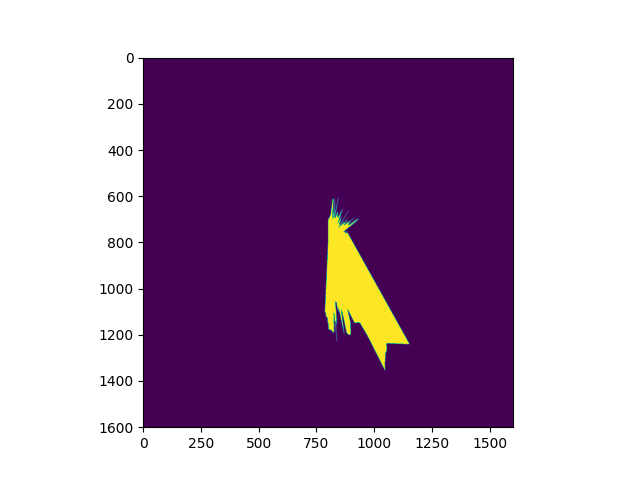
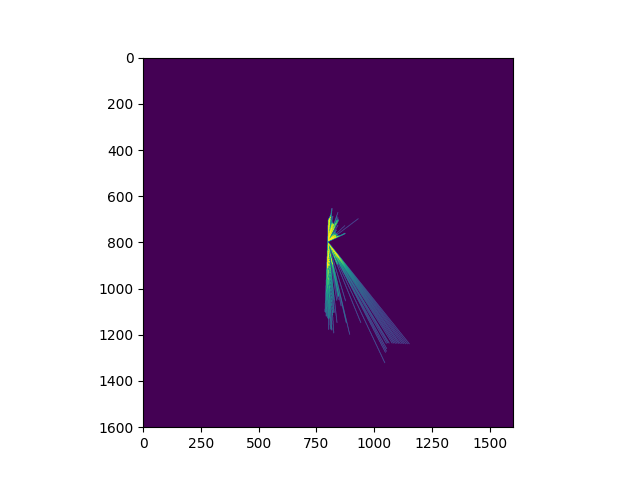
bresenham method used

Changed region(s): [[0.5, 0.4062, 0.6562, 0.7812]]

diff --git a/ECE-276A/Project-2/code/occupancy_grid_map.py b/ECE-276A/Project-2/code/occupancy_grid_map.py
@@ -13,11 +13,11 @@ def initializeMap(res, xmin, ymin, xmax, ymax, memory = None, trust = None, opti
     if trust == None:
         trust = 0.8
     if optimism == None:
-        optimism = 0.5
+        optimism = 1#0.5
     if occupied_thresh == None:
         occupied_thresh = 0.85
     if free_thresh == None:
-        free_thresh = 0.2 # 0.5 # 0.25
+        free_thresh = 0.5 # 0.5 # 0.25
     if confidence_limit == None:
         confidence_limit = 40 * memory
     
@@ -69,7 +69,7 @@ def updateMap(MAP, x_w, y_w, x_cur, y_cur):
     MAP['map'] = MAP['map'] * MAP['memory']
 
     # occupied in map
-    MAP['map'][x_m,y_m] += MAP['occupied'] #- MAP['free'] # we're going to add the MAP['free'] back in a second
+    MAP['map'][x_m,y_m] += MAP['occupied']#- MAP['free'] # we're going to add the MAP['free'] back in a second
     
     # initialize a mask where we will label the free cells
     free_grid = np.zeros(MAP['map'].shape).astype(np.int8) 
@@ -78,8 +78,15 @@ def updateMap(MAP, x_w, y_w, x_cur, y_cur):
     contours = np.vstack((x_m, y_m)) # SWITCH
 
     # find the cells that are free, and update the map
-    cv2.drawContours(free_grid, [contours.T], -1, MAP['free'], -1) 
-    MAP['map'] += free_grid 
+    #cv2.drawContours(free_grid, [contours.T], -1, MAP['free'], -1) 
+    for i in range(contours.shape[1]):
+        hit_x_m, hit_y_m = x_m[i], y_m[i]
+        frees = bresenham2D(x_cur_m, y_cur_m, hit_x_m, hit_y_m)
+        MAP['map'][frees[1,:].astype(int),frees[0,:].astype(int)] += MAP['free']
+    
+    #MAP['map'] += free_grid 
+    #plt.imshow(free_grid)
+    #plt.savefig("free_grid")
     
     # prevent overconfidence
     MAP['map'][MAP['map'] > MAP['confidence_limit']] = MAP['confidence_limit']
@@ -90,69 +97,12 @@ def updateMap(MAP, x_w, y_w, x_cur, y_cur):
     free_grid = MAP['map'] < MAP['free_thresh']
     plt.imshow(free_grid)
     plt.savefig("free_grid")
-    plt.imshow(occupied_grid)
-    plt.savefig("occupied_grid")
+    #plt.imshow(occupied_grid)
+    #plt.savefig("occupied_grid")
     
     MAP['plot'][occupied_grid] = [0, 0, 0]
     MAP['plot'][free_grid] = [255, 255, 255] 
-    plt.imshow(MAP['plot'])
-    plt.savefig('map_before.png')
-    
     MAP['plot'][np.logical_and(np.logical_not(free_grid), np.logical_not(occupied_grid))] = [127, 127, 127]
     
     x_m, y_m = transformation.worldToMap(MAP, x_w, y_w)
     MAP['plot'][y_m, x_m] = [255, 0, 0]    # plot latest lidar scan hits
-
-
-def test_mapCorrelation():
-    _, lidar_data = read_data_from_csv('/home/wf1497c/ML/UCSD/ECE-276A/Project-2/Lidar/lidar.csv')
-    angles = np.linspace(-5, 185, 286) / 180 * np.pi
-    ranges = lidar_data[0, :]
-
-    # take valid indices
-    indValid = np.logical_and((ranges < 80),(ranges> 0.1))
-    ranges = ranges[indValid]
-    angles = angles[indValid]
-
-    # init MAP
-    MAP = {}
-    MAP['res']   = 0.1 #meters
-    MAP['xmin']  = -50  #meters
-    MAP['ymin']  = -50
-    MAP['xmax']  =  50
-    MAP['ymax']  =  50 
-    MAP['sizex']  = int(np.ceil((MAP['xmax'] - MAP['xmin']) / MAP['res'] + 1)) #cells
-    MAP['sizey']  = int(np.ceil((MAP['ymax'] - MAP['ymin']) / MAP['res'] + 1))
-    MAP['map'] = np.zeros((MAP['sizex'],MAP['sizey']),dtype=np.int8) #DATA TYPE: char or int8
-    
-    #import pdb
-    #pdb.set_trace()
-    
-    # xy position in the sensor frame
-    xs0 = ranges*np.cos(angles)
-    ys0 = ranges*np.sin(angles)
-    
-    # convert position in the map frame here 
-    Y = np.stack((xs0,ys0))
-    
-    # convert from meters to cells
-    xis = np.ceil((xs0 - MAP['xmin']) / MAP['res'] ).astype(np.int16)-1
-    yis = np.ceil((ys0 - MAP['ymin']) / MAP['res'] ).astype(np.int16)-1
-    
-    # build an arbitrary map 
-    indGood = np.logical_and(np.logical_and(np.logical_and((xis > 1), (yis > 1)), (xis < MAP['sizex'])), (yis < MAP['sizey']))
-    MAP['map'][xis[indGood],yis[indGood]]=1
-        
-    x_im = np.arange(MAP['xmin'],MAP['xmax']+MAP['res'],MAP['res']) #x-positions of each pixel of the map
-    y_im = np.arange(MAP['ymin'],MAP['ymax']+MAP['res'],MAP['res']) #y-positions of each pixel of the map
-
-    x_range = np.arange(-0.4,0.4+0.1,0.1)
-    y_range = np.arange(-0.4,0.4+0.1,0.1)
-
-    plt.imshow(MAP['map'], cmap = 'gray')
-    plt.savefig('map.jpg')
-    print('a')
-
-def lidarToWorldFrame(x_l, y_l):
-    v_T_l = transformation.lidarToVehicleTransform()
-    w_T_v = transformation.vehicleToWorldTransform()

diff --git a/ECE-276A/Project-2/code/SLAM.py b/ECE-276A/Project-2/code/SLAM.py
@@ -155,12 +155,11 @@ class getData():
 
 if __name__ == '__main__':
     data = getData()
-    MAP, particles, TRAJECTORY_w, TRAJECTORY_m = data.initializeSLAM(5)
+    MAP, particles, TRAJECTORY_w, TRAJECTORY_m = data.initializeSLAM(1)
 
-    for i in range(20):#len(data.lidar_data)):
-
-        lidar_angle = np.linspace(-5, 185, 286) / 180 * np.pi
+    for i in range(1):#len(data.lidar_data)):
         lidar_range = data.lidar_data[i, :]
+        lidar_angle = np.linspace(-5, 185, 286) / 180 * np.pi
 
         # Remove scan points that are too close or too far
         indValid = [range < 80 and range > 0.1 for range in lidar_range]
@@ -190,7 +189,6 @@ if __name__ == '__main__':
         x_l, y_l = np.double(transformation.polar2cart(lidar_range, lidar_angle))
         x_cur, y_cur, yaw_cur = TRAJECTORY_w['particle'][0][0], TRAJECTORY_w['particle'][0][1], TRAJECTORY_w['particle'][0][2]
         x_w, y_w, _ = transformation.lidarToWorld(x_l, y_l, x_cur, y_cur, yaw_cur)
-
         x_m, y_m = transformation.worldToMap(MAP, x_w, y_w)
         
         if(i == 0):
@@ -200,32 +198,31 @@ if __name__ == '__main__':
             plt.savefig('map.png')
 
         # particle filter steps. Resample is called in the updateParticles() function
-        particle.predictParticles(particles, delta_pose[0], delta_pose[1], delta_pose[2], pose[0], pose[1], pose[2])
-        particle.updateParticles(particles, MAP, x_l, y_l)
-        
+        #particle.predictParticles(particles, delta_pose[0], delta_pose[1], delta_pose[2], pose[0], pose[1], pose[2])
+        #particle.updateParticles(particles, MAP, x_l, y_l)
+        #print("prediction done")
         # update trajectories again
-        pose = particles['poses'][np.argmax(particles['weights']), :]
+        #pose = particles['poses'][np.argmax(particles['weights']), :]
             
-        TRAJECTORY_w['particle'].append(pose)
-        x_m, y_m = transformation.worldToMap(MAP, TRAJECTORY_w['particle'][i][0], TRAJECTORY_w['particle'][i][1])
-        TRAJECTORY_m['particle'].append(np.array([x_m, y_m, pose[2]]))
+        #TRAJECTORY_w['particle'].append(pose)
+        #x_m, y_m = transformation.worldToMap(MAP, TRAJECTORY_w['particle'][i][0], TRAJECTORY_w['particle'][i][1])
+        #TRAJECTORY_m['particle'].append(np.array([x_m, y_m, pose[2]]))
         
         # update map based on particle's view of lidar scan
-        occupancy_grid_map.updateMap(MAP, x_w, y_w, pose[0], pose[1])
+        #occupancy_grid_map.updateMap(MAP, x_w, y_w, pose[0], pose[1])
 
 
-        if i % 1000 == 0:
-            print(x_m)
+        #if i % 1000 == 0:
+        #    print(x_m)
             #print(TRAJECTORY_m['odometry'][i][0], TRAJECTORY_m['odometry'][i][1])
 
     traj_x_m = []
     traj_y_m = []
-    for i in range(len(TRAJECTORY_m['particle'])):
-        traj_x_m.append(TRAJECTORY_m['particle'][i][0])
-        traj_y_m.append(TRAJECTORY_m['particle'][i][1])
+    for i in range(len(TRAJECTORY_m['odometry'])):
+        traj_x_m.append(TRAJECTORY_m['odometry'][i][0])
+        traj_y_m.append(TRAJECTORY_m['odometry'][i][1])
     
-    plt.imshow(np.zeros([1601, 1601]))
-    plt.scatter(traj_x_m, traj_y_m, c = 'r')
-    plt.savefig('Trajectory')
+    #plt.scatter(traj_x_m, traj_y_m, c = 'r')
+    #plt.savefig('Trajectory')
 
     print('b')
